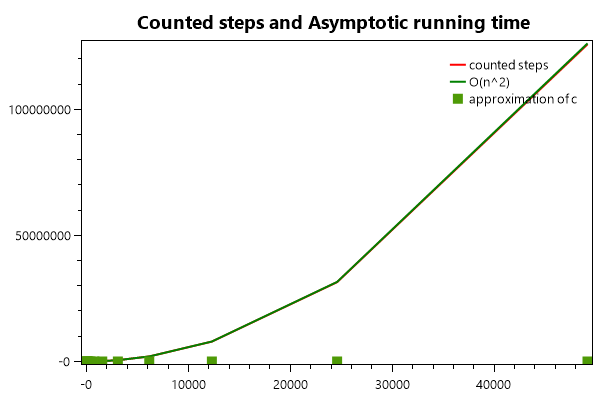
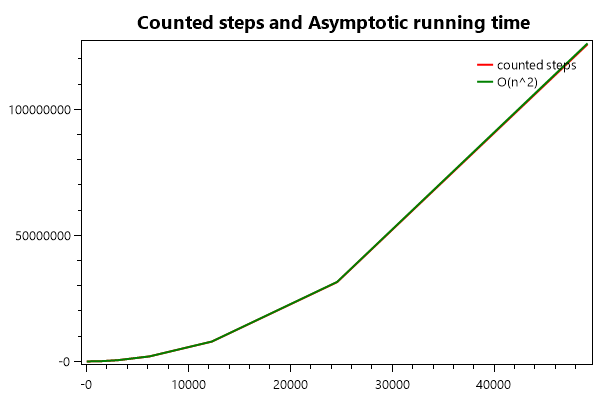
Added a second plot for scatter lines and added source of inspiration

diff --git a/csharp/Program.cs b/csharp/Program.cs
@@ -1,22 +1,26 @@
-using OxyPlot;
+
+using OxyPlot;
 using OxyPlot.Series;
 using OxyPlot.Axes;
 using System;
 using System.Collections.Generic;
 using System.IO;
 using OxyPlot.WindowsForms;
-
+//Code is converted from example code in the course
+//Not proficient in Oxyplot, so much code has been copied from bot
 class Program
 {
     static void Main(string[] args)
     {
-       var model = new PlotModel { Title = "Counted steps and Asymptotic running time" };
+       var model1 = new PlotModel { Title = "Counted steps and Asymptotic running time" };
         var countedStepsSeries = new LineSeries { Title = "counted steps", Color = OxyColors.Red };
         var asymptoticSeries = new LineSeries { Title = "O(n^2)", Color = OxyColors.Green };
-
+        var model2 = new PlotModel { Title = "Approximation of c" };
+        model2.Axes.Add(new LinearAxis { Position = AxisPosition.Bottom, Title = "Size of n" });
+        model2.Axes.Add(new LinearAxis { Position = AxisPosition.Left, Title = "c Factor" });
         var scatterSeries = new ScatterSeries { Title = "approximation of c" };
 
-        List<int> B = new List<int> { 5, 2, 4, 6, 1, 3 };
+        List<int> B = new List<int> { 5, 2, 4, 6, 1, 3 };   
         int points = 13;
         List<double> x = new List<double>(), y = new List<double>(), refValues = new List<double>(), c = new List<double>();
 
@@ -38,17 +42,21 @@ class Program
             scatterSeries.Points.Add(new ScatterPoint(x[i], c[i]));
         }
 
-        model.Series.Add(countedStepsSeries);
-        model.Series.Add(asymptoticSeries);
-        model.Series.Add(scatterSeries);
-        var pngExporter = new PngExporter { Width = 600, Height = 400, Background = OxyColors.White };
-        using (var stream = File.Create("plot.png"))
-        {
-            pngExporter.Export(model, stream);
-        }
-
-        Console.WriteLine("Plot exported as 'plot.png'");
+        model1.Series.Add(countedStepsSeries);
+        model1.Series.Add(asymptoticSeries);
+        model2.Series.Add(scatterSeries);
+        ExportToPng(model1, "plot.png");
+        ExportToPng(model2, "plot2.png");
     }
+
+    static void ExportToPng(PlotModel model, string filename)
+{
+    var pngExporter = new PngExporter { Width = 600, Height = 400, Background = OxyColors.White };
+    using (var stream = File.Create(filename))
+    {
+        pngExporter.Export(model, stream);
+    }
+}
 
     static int InsertionSort(int[] arr)
     {
